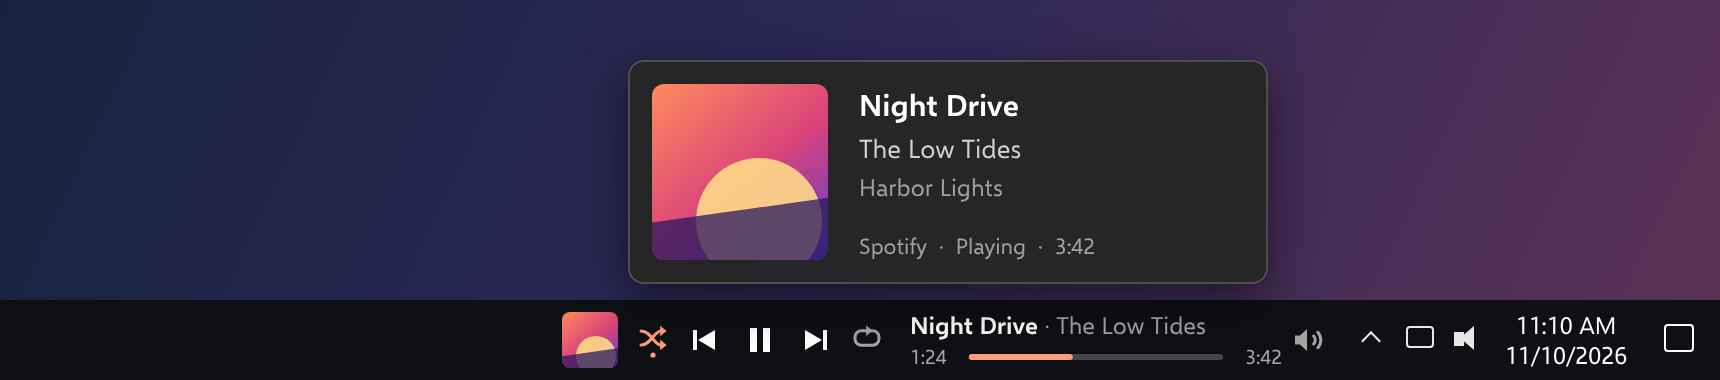
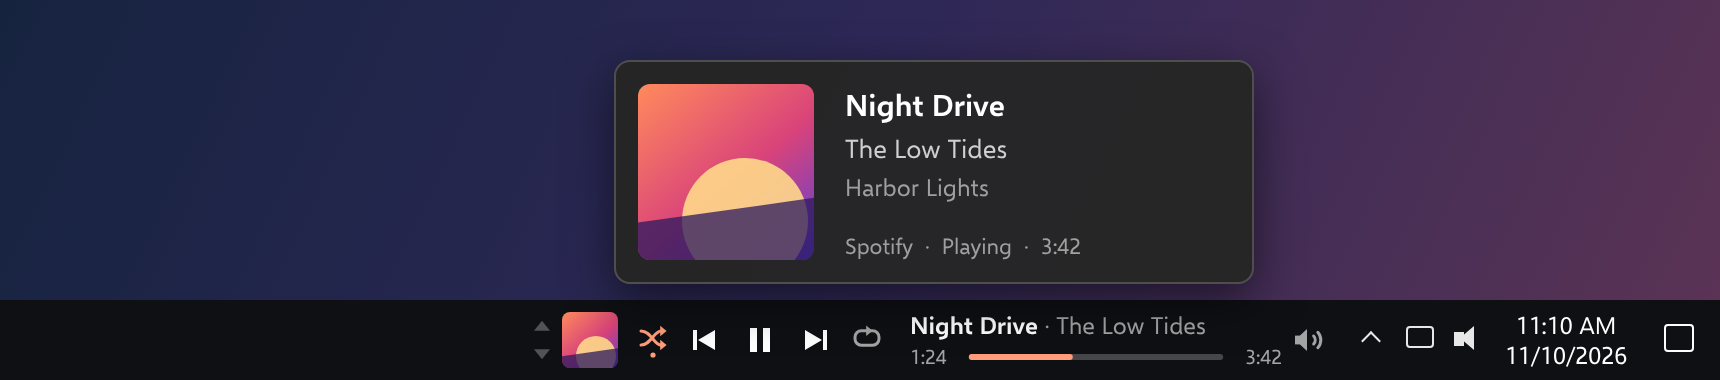
Version 1.7.0: button spacing, stacked shuffle/repeat, greyed-out buttons
- Add a button spacing setting (compact to extra wide)
- Add an option to stack shuffle above repeat in one column
- Show buttons that cannot be used greyed out instead of hiding them,
  with a setting to restore hiding

Claude-Session: https://claude.ai/code/session_01A9s5QCKFAERrzQajkGGZzC

Changed region(s): [[0.339, 0.1447, 0.6471, 0.7526], [0.7087, 0.1447, 0.7395, 0.7526], [0.3081, 0.8395, 0.339, 0.8684]]

diff --git a/src/render.rs b/src/render.rs
@@ -92,6 +92,11 @@ pub struct LayoutParams {
     pub button_size: u32,
     /// 0 thin, 1 normal, 2 thick.
     pub seek_size: u32,
+    /// Space between buttons: 0 compact, 1 normal, 2 roomy, 3 wide,
+    /// 4 extra wide.
+    pub gap: u32,
+    /// Put shuffle above repeat in one column when both are shown.
+    pub stack: bool,
 }
 
 impl LayoutParams {
@@ -126,6 +131,8 @@ pub struct Layout {
     pub vol_icon: Rect,
     /// The title sits above the seek bar, rather than each on its own.
     pub stacked: bool,
+    /// Shuffle and repeat share a column, shuffle on top.
+    pub stacked_extras: bool,
     pub row1: Rect,
     pub row2: Rect,
     pub elapsed: Rect,
@@ -146,8 +153,11 @@ impl Layout {
         let art_size = (h - 12.0 * u).min(40.0 * u).max(12.0).round();
         let art_y = ((h - art_size) / 2.0).round();
         let gear_size = (14.0 * u).round();
-        let bw = (28.0 * u * bs).round();
-        let ew = (23.0 * u * bs).round();
+        // Each button sits in a cell; wider cells put more space between
+        // the icons.
+        let gap = [-5.0, 0.0, 5.0, 10.0, 16.0][p.gap.min(4) as usize] * u;
+        let bw = (28.0 * u * bs + gap).round().max(14.0 * u);
+        let ew = (23.0 * u * bs + gap).round().max(13.0 * u);
         let bh = art_size.min(32.0 * u * bs).round();
         let by = ((h - bh) / 2.0).round();
 
@@ -172,6 +182,7 @@ impl Layout {
             Some(&ITEM_GEAR) | Some(&ITEM_PLAYERS) => (3.0 * u).round(),
             _ => (6.0 * u).round(),
         };
+        let stack = p.stack && items.contains(&ITEM_SHUFFLE) && items.contains(&ITEM_REPEAT);
         let mut end_pad = 0.0;
         for item in items {
             end_pad = 0.0;
@@ -194,6 +205,18 @@ impl Layout {
                 ITEM_PREV | ITEM_PLAY | ITEM_NEXT => {
                     l.buttons[(item - ITEM_PREV) as usize] = Rect { x, y: by, w: bw, h: bh };
                     x += bw;
+                    end_pad = (6.0 * u).round();
+                }
+                // Stacked: one column where the first of the two would be,
+                // shuffle in the top half and repeat in the bottom.
+                ITEM_SHUFFLE | ITEM_REPEAT if stack => {
+                    if !l.stacked_extras {
+                        let half = (art_size / 2.0).round();
+                        l.extras[0] = Rect { x, y: art_y, w: ew, h: half };
+                        l.extras[1] = Rect { x, y: art_y + half, w: ew, h: art_size - half };
+                        l.stacked_extras = true;
+                        x += ew;
+                    }
                     end_pad = (6.0 * u).round();
                 }
                 ITEM_SHUFFLE | ITEM_REPEAT => {
@@ -292,9 +315,16 @@ impl Layout {
                 return [Hit::Prev, Hit::Play, Hit::Next][i];
             }
         }
-        for (i, b) in self.extras.iter().enumerate() {
-            if within(b, 0.0) {
-                return [Hit::Shuffle, Hit::Repeat][i];
+        if self.stacked_extras {
+            // One column: above the middle is shuffle, below is repeat.
+            if within(&self.extras[0], 0.0) {
+                return if y < self.extras[1].y { Hit::Shuffle } else { Hit::Repeat };
+            }
+        } else {
+            for (i, b) in self.extras.iter().enumerate() {
+                if within(b, 0.0) {
+                    return [Hit::Shuffle, Hit::Repeat][i];
+                }
             }
         }
         if within(&self.output, 0.0) {
@@ -380,6 +410,8 @@ pub struct Frame {
     pub mixer_open: bool,
     /// The output device list is open (its button looks pressed).
     pub outputs_open: bool,
+    /// More than one player is running, so the switcher arrows do something.
+    pub players_enabled: bool,
 }
 
 /// A widget's album art, decoded and scaled to the size it is drawn at.
@@ -998,12 +1030,18 @@ unsafe fn draw(
         let half = b.h / 2.0;
         for (kind, top, dir) in [(Hit::PlayerUp, b.y, -1.0f32), (Hit::PlayerDown, b.y + half, 1.0)] {
             let zone = Rect { x: b.x - u, y: top, w: b.w + 2.0 * u, h: half };
-            if f.hover == kind {
+            if f.players_enabled && f.hover == kind {
                 let c = if f.pressed == kind { plate_down } else { plate };
                 fill_round_color(g, c, zone, 3.0 * u);
             }
-            // A small triangle pointing up or down.
-            let brush = solid(if f.hover == kind { primary } else { dim });
+            // A small triangle pointing up or down; greyed with one player.
+            let brush = solid(if !f.players_enabled {
+                disabled
+            } else if f.hover == kind {
+                primary
+            } else {
+                dim
+            });
             let (cx, cy) = (zone.cx(), zone.cy());
             polygon(
                 g,
@@ -1124,10 +1162,12 @@ unsafe fn draw(
             if b.w <= 0.0 {
                 continue;
             }
-            let u = u * l.b;
+            // Stacked, each icon has half the height, so it is drawn smaller
+            // and without the "on" dot underneath (its color shows that).
+            let u = u * l.b * if l.stacked_extras { 0.76 } else { 1.0 };
             if enabled[i] && f.hover == kinds[i] {
                 let c = if f.pressed == kinds[i] { plate_down } else { plate };
-                fill_round_color(g, c, b, radius);
+                fill_round_color(g, c, b, radius.min(b.h / 2.0));
             }
             let color = if !enabled[i] {
                 disabled
@@ -1136,7 +1176,7 @@ unsafe fn draw(
             } else {
                 dim
             };
-            let (cx, cy) = (b.cx(), b.cy() - 1.0 * u);
+            let (cx, cy) = (b.cx(), b.cy() - if l.stacked_extras { 0.0 } else { 1.0 * u });
             let mut pen: *mut GpPen = null_mut();
             GdipCreatePen1(color, 1.5 * u, UnitPixel, &mut pen);
             let brush = solid(color);
@@ -1166,7 +1206,7 @@ unsafe fn draw(
                 }
                 GdipDeletePen(pen);
             }
-            if enabled[i] && active[i] {
+            if enabled[i] && active[i] && !l.stacked_extras {
                 let d = 1.3 * u;
                 GdipFillEllipse(g, brush, cx - d, cy + 7.2 * u, d * 2.0, d * 2.0);
             }

diff --git a/src/settings.rs b/src/settings.rs
@@ -55,6 +55,9 @@ const ID_OUTPUT_A: i32 = 137;
 const ID_OUTPUT_B: i32 = 138;
 const ID_LAYOUT_TARGET: i32 = 139;
 const ID_VOLUME_TARGET: i32 = 145;
+const ID_BUTTON_GAP: i32 = 146;
+const ID_STACK: i32 = 109;
+const ID_HIDE_UNUSABLE: i32 = 160;
 const ID_LAYOUT2: i32 = 107;
 const ID_HOVER: i32 = 108;
 const ID_TEXT_RGB: i32 = 124;
@@ -101,7 +104,7 @@ const LBN_SELCHANGE: u32 = 1;
 // Window layout at 96 dpi: a tab strip, the tab's controls, a row of buttons.
 const CLIENT_W: i32 = 400;
 const TOP: i32 = 48;
-const BUTTONS_Y: i32 = 482;
+const BUTTONS_Y: i32 = 526;
 const CLIENT_H: i32 = BUTTONS_Y + 28 + 14;
 const TAB_NAMES: [&str; 5] = ["General", "Layout", "Appearance", "Behavior", "More"];
 
@@ -474,8 +477,8 @@ pub fn open(module: HINSTANCE) {
         b.button("Reset layout", 242, y + 130, 142, ID_ITEM_RESET, false);
         y += 164;
         b.text(
-            "Shuffle and repeat need a player that supports them. \"Title over seek bar\" \
-             replaces the two separate items when it is shown.",
+            "\"Title over seek bar\" replaces the two separate title and seek bar items \
+             when it is shown.",
             y,
             36,
         );
@@ -483,6 +486,14 @@ pub fn open(module: HINSTANCE) {
         b.choice("Text width", y, ID_WIDTH, &["Compact", "Normal", "Wide"], cfg.width);
         y += 30;
         b.choice("Button size", y, ID_BUTTON_SIZE, &["Small", "Medium", "Large"], cfg.button_size);
+        y += 30;
+        b.choice(
+            "Button spacing",
+            y,
+            ID_BUTTON_GAP,
+            &["Compact", "Normal", "Roomy", "Wide", "Extra wide"],
+            cfg.button_gap,
+        );
         y += 30;
         b.choice(
             "Text",
@@ -497,6 +508,16 @@ pub fn open(module: HINSTANCE) {
             ],
             cfg.text_layout,
         );
+        y += 34;
+        b.checkbox("Stack shuffle above repeat in one column", y, ID_STACK, cfg.stack_extras);
+        y += 26;
+        b.checkbox(
+            "Hide buttons that can't be used (otherwise shown greyed out)",
+            y,
+            ID_HIDE_UNUSABLE,
+            cfg.hide_unusable,
+        );
+        debug_assert!(y + 22 <= BUTTONS_Y - 10);
 
         // ---- Appearance -------------------------------------------------
         b.tab.set(2);
@@ -792,6 +813,7 @@ unsafe fn on_command(hwnd: HWND, id: i32, code: u32) {
             ID_COLOR => Some(|c| &mut c.text_color),
             ID_WHEEL => Some(|c| &mut c.wheel_mode),
             ID_BUTTON_SIZE => Some(|c| &mut c.button_size),
+            ID_BUTTON_GAP => Some(|c| &mut c.button_gap),
             ID_TEXT_LAYOUT => Some(|c| &mut c.text_layout),
             ID_FONT => Some(|c| &mut c.font),
             ID_ACCENT => Some(|c| &mut c.accent_mode),
@@ -919,6 +941,14 @@ unsafe fn on_command(hwnd: HWND, id: i32, code: u32) {
         (ID_LAYOUT_TARGET, CBN_SELCHANGE) => {
             LAYOUT_TARGET.with(|t| t.set(selection(hwnd, id).min(1)));
             fill_items(hwnd, &crate::current_config(), 0);
+        }
+        (ID_STACK, BN_CLICKED) => {
+            let v = checked(hwnd, id);
+            crate::update_config(|c| c.stack_extras = v);
+        }
+        (ID_HIDE_UNUSABLE, BN_CLICKED) => {
+            let v = checked(hwnd, id);
+            crate::update_config(|c| c.hide_unusable = v);
         }
         (ID_HOVER, BN_CLICKED) => {
             let v = checked(hwnd, id);

diff --git a/src/config.rs b/src/config.rs
@@ -75,6 +75,15 @@ pub struct Config {
     pub art_click: u32,
     /// Clicking the title: 0 copies it, 1 opens the player, 2 nothing.
     pub title_click: u32,
+    /// Extra space between buttons: 0 compact, 1 normal, 2 roomy, 3 wide,
+    /// 4 extra wide.
+    pub button_gap: u32,
+    /// Shuffle above repeat in one column, when both are shown.
+    pub stack_extras: bool,
+    /// Leave out buttons that cannot be used right now (shuffle and repeat
+    /// for players without them, the player arrows with one player) rather
+    /// than showing them greyed out.
+    pub hide_unusable: bool,
     /// What the volume button's icon reflects: 0 the player's own volume,
     /// 1 the system volume.
     pub volume_target: u32,
@@ -265,6 +274,9 @@ impl Config {
             seek_size: d(w!("SeekSize"), 1, 2),
             background: d(w!("Background"), 0, 2),
             art_click: d(w!("ArtClick"), 0, 2),
+            button_gap: d(w!("ButtonGap"), 1, 4),
+            stack_extras: d(w!("StackExtras"), 0, 1) == 1,
+            hide_unusable: d(w!("HideUnusable"), 0, 1) == 1,
             volume_target: d(w!("VolumeTarget"), 0, 1),
             output_click: d(w!("OutputClick"), 0, 1),
             output_a: read_string(SETTINGS_KEY, w!("OutputA")).unwrap_or_default(),
@@ -307,6 +319,9 @@ impl Config {
         write_dword(SETTINGS_KEY, w!("Background"), self.background);
         write_dword(SETTINGS_KEY, w!("ArtClick"), self.art_click);
         write_dword(SETTINGS_KEY, w!("TitleClick"), self.title_click);
+        write_dword(SETTINGS_KEY, w!("ButtonGap"), self.button_gap);
+        write_dword(SETTINGS_KEY, w!("StackExtras"), self.stack_extras as u32);
+        write_dword(SETTINGS_KEY, w!("HideUnusable"), self.hide_unusable as u32);
         write_dword(SETTINGS_KEY, w!("VolumeTarget"), self.volume_target);
         write_dword(SETTINGS_KEY, w!("OutputClick"), self.output_click);
         write_string(SETTINGS_KEY, w!("OutputA"), &self.output_a);

diff --git a/src/main.rs b/src/main.rs
@@ -761,8 +761,12 @@ impl App {
                 width: self.cfg.width,
                 show_times: self.cfg.show_times,
                 mini: false,
-                extra: self.snap.can_shuffle || self.snap.can_repeat,
-                players: self.snap.sessions.len() > 1,
+                // Buttons that cannot be used right now are shown greyed
+                // out, unless the user prefers them left out.
+                extra: !self.cfg.hide_unusable || self.snap.can_shuffle || self.snap.can_repeat,
+                players: !self.cfg.hide_unusable || self.snap.sessions.len() > 1,
+                gap: self.cfg.button_gap,
+                stack: self.cfg.stack_extras,
                 order: self.cfg.order(tb.primary),
                 button_size: self.cfg.button_size,
                 seek_size: self.cfg.seek_size,
@@ -1422,6 +1426,7 @@ impl App {
             vol_muted: self.volume.is_some_and(|(_, muted)| muted),
             mixer_open: self.mixer_open && self.popup == Popup::Mixer,
             outputs_open: self.mixer_open && self.popup == Popup::Outputs,
+            players_enabled: self.snap.sessions.len() > 1,
         };
         if widget.last_frame.as_ref() != Some(&frame) {
             let art = self.snap.art.clone();

diff --git a/README.md b/README.md
@@ -23,10 +23,10 @@ Nearly everything can be rearranged, hidden or restyled:
 
 From left to right:
 
-- Up / down arrows to switch player, when more than one app is playing
+- Up / down arrows to switch player (greyed out with a single player)
 - Album art; click it to bring up the app that is playing
-- Shuffle, previous, play/pause, next, repeat (shuffle and repeat only when
-  the player supports them)
+- Shuffle, previous, play/pause, next, repeat (shuffle and repeat are greyed
+  out when the player does not support them)
 - Title and artist over a seek bar with elapsed / total time (click or drag)
 - A speaker button that opens the volume mixer
 
@@ -61,7 +61,9 @@ Run `TaskbarMedia.exe`. There is no installer and no other files.
   check, Spotify only, which taskbars to show on, keep clear of app icons
 - **Layout**: which items show and in what order (with the title and seek
   bar stacked, side by side, or on their own), a separate layout for other
-  displays, text width, button size, and what the text shows
+  displays, text width, button size and spacing, shuffle stacked above
+  repeat, what the text shows, and whether unusable buttons are greyed out
+  or hidden
 - **Appearance**: text size, font, text color, rendering (smooth or sharp),
   highlight color, custom colors, album art shape, seek bar thickness,
   background, times, scrolling titles, hover card

diff --git a/CHANGELOG.md b/CHANGELOG.md
@@ -1,5 +1,18 @@
 # Changelog
 
+## 1.7.0
+
+### Added
+- Button spacing setting: compact, normal, roomy, wide or extra wide.
+- Option to stack shuffle above repeat in a single column.
+
+### Changed
+- Buttons that cannot be used right now are shown greyed out instead of
+  disappearing: shuffle and repeat with players that lack them, and the
+  player arrows when only one player is running. The widget no longer
+  changes width as these come and go. The old behaviour is available as
+  "Hide buttons that can't be used" in Settings, Layout.
+
 ## 1.6.0
 
 ### Added
